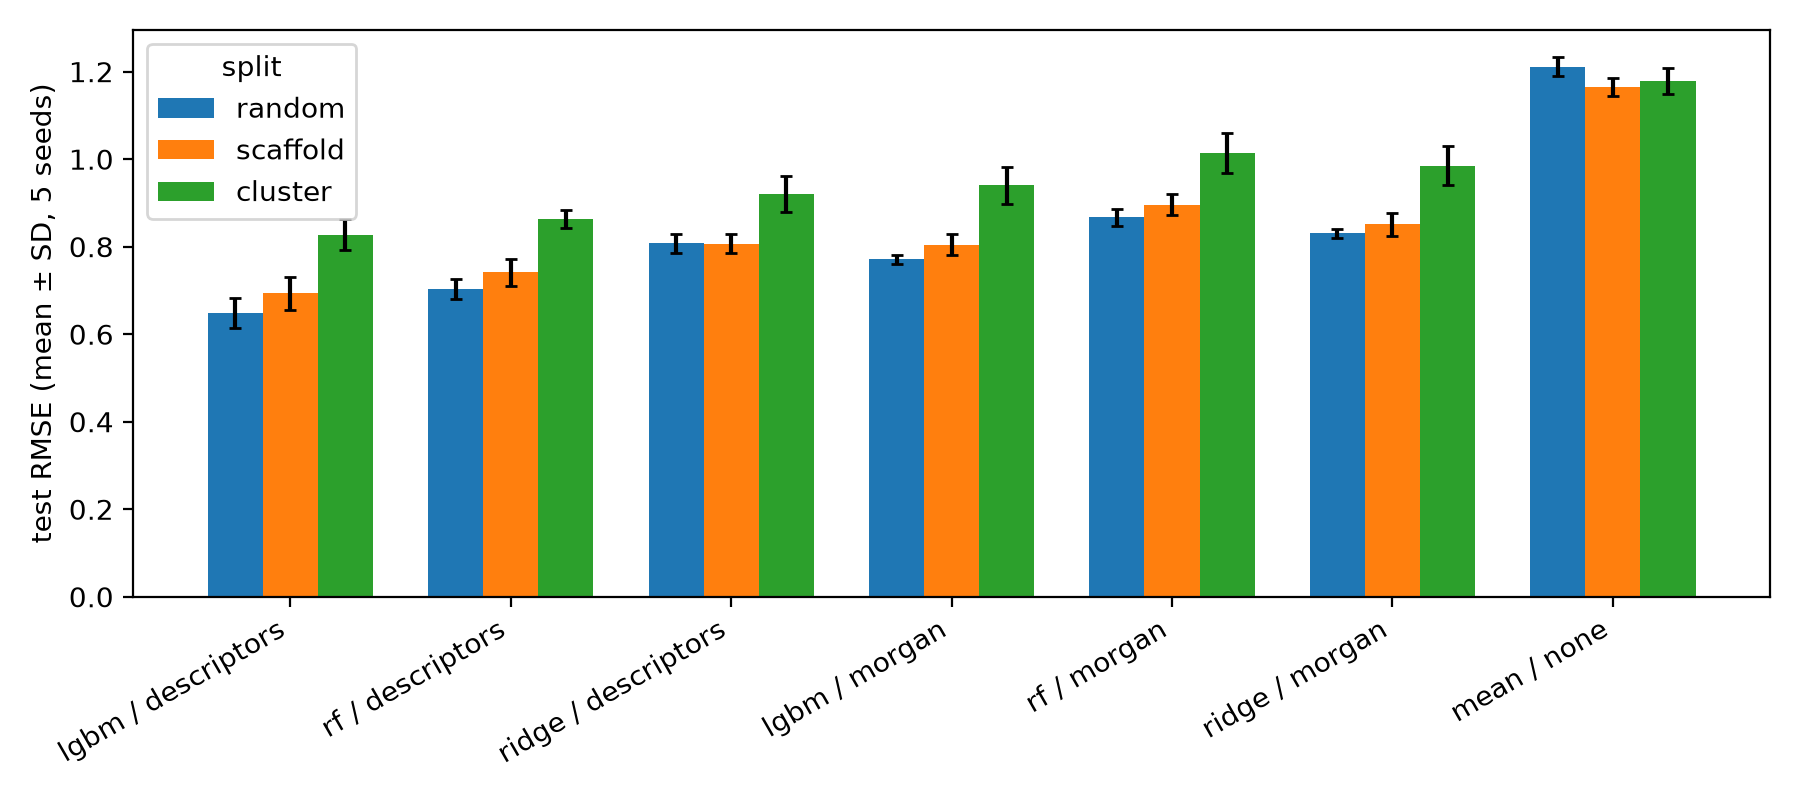
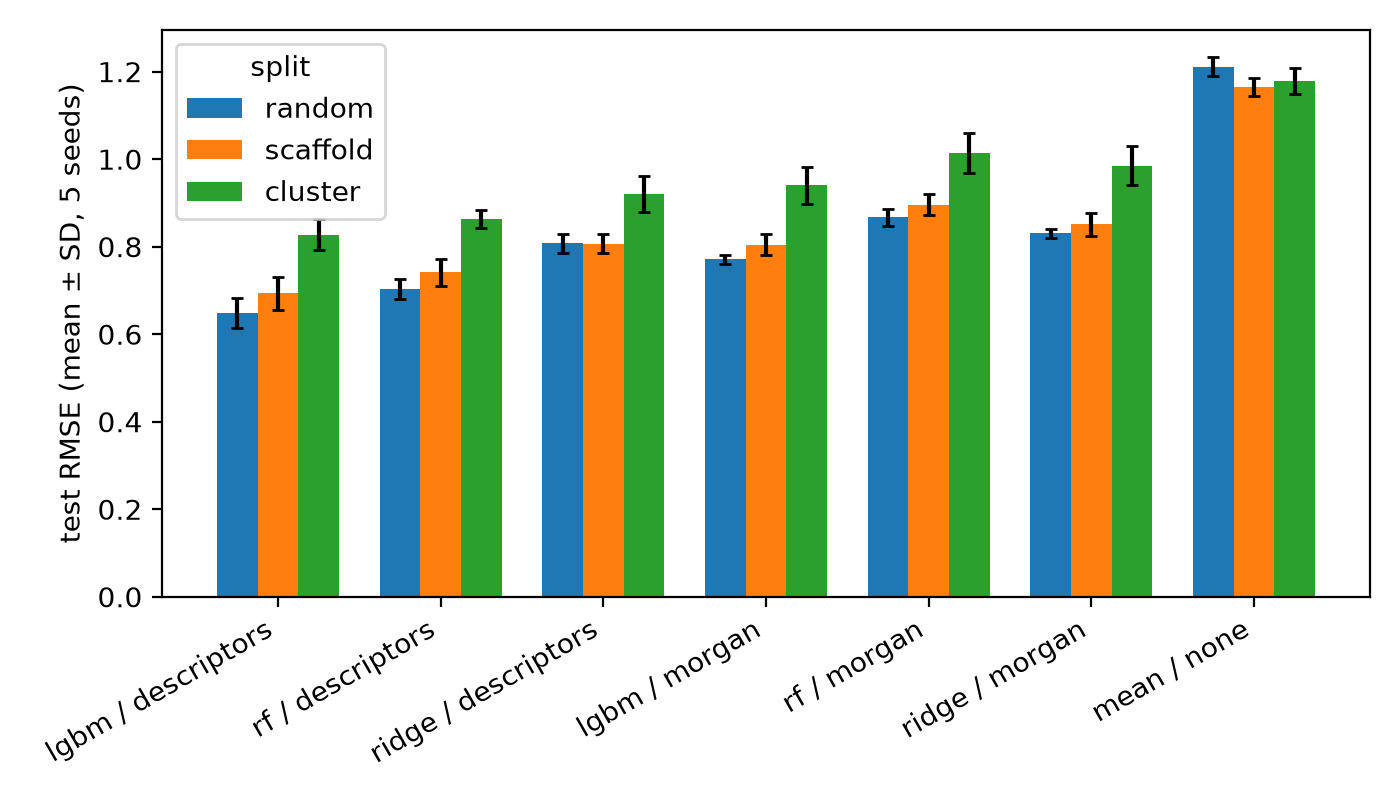
Improve comments & readability

diff --git a/03_domain_analysis.py b/03_domain_analysis.py
@@ -2,48 +2,57 @@ from pathlib import Path
 
 import pandas as pd
 
-from qsar_ad.domain import (ad_inside_outside, attach_errors, compute_split_ad, coverage_curve,
-                            error_by_similarity, error_similarity_correlation, fluorine_stats,
-                            load_pfas, reference_similarity)
-from qsar_ad.features import morgan_matrix
-from qsar_ad.plotting import (plot_coverage_curve, plot_error_vs_similarity,
-                              plot_similarity_distributions)
+from qsar_ad import (ad_inside_outside, attach_errors, compute_split_ad, coverage_curve,
+                    error_by_similarity, error_similarity_correlation, fluorine_stats,
+                    load_pfas, reference_similarity, morgan_matrix, plot_coverage_curve, 
+                    plot_error_vs_similarity, plot_similarity_distributions)
 
+# Set pandas display options and define output directories
 pd.set_option("display.width", 200, "display.max_columns", None)
 out = Path("results/tables"); fig_dir = Path("results/figures")
 fig_dir.mkdir(parents=True, exist_ok=True)
 
+# Load curated dataset and compute Morgan fingerprints for the training set
 df = pd.read_parquet("data/processed/lipo_curated.parquet").reset_index(drop=True)
 X = morgan_matrix(df["smiles"])
 preds = pd.read_parquet(out / "predictions.parquet")
 
 # ---- Part A: does the AD predict error? ----
+# Compute AD scores for each split and seed, then attach to predictions
 ad = compute_split_ad(df, X)                      # same defaults as run_benchmark
 d = attach_errors(preds, ad)
 ad.to_parquet(out / "ad_scores.parquet")
 
+# Compute error by similarity, correlation, and coverage curve
 binned = error_by_similarity(d)
 corr = error_similarity_correlation(d)
 inout = ad_inside_outside(d, "in_ad")
 inout_fixed = ad_inside_outside(d, "near_train")
 curve = coverage_curve(d)
+
+# Save results to CSV files
 for name, t in [("error_by_similarity", binned), ("error_similarity_correlation", corr),
                 ("ad_inside_outside", inout), ("ad_inside_outside_sim04", inout_fixed),
                 ("coverage_curve", curve)]:
     t.to_csv(out / f"{name}.csv", index=False)
 
 print(corr.round(3)); print(inout.round(3))
+
+# Plot error vs similarity and coverage curve, then save the figures
 plot_error_vs_similarity(binned, path=fig_dir / "error_vs_similarity.png")
 plot_coverage_curve(curve, path=fig_dir / "coverage_curve.png")
 
 # ---- Fluorine content of the training set ----
+# Compute fluorine statistics and print summary
 fs = fluorine_stats(df["smiles"])
 print("curated set: any F:", int((fs.n_F > 0).sum()),
       "| OECD-style CF2/CF3:", int(fs.pfas_oecd.sum()), "of", len(df))
 
 # ---- Part B: PFAS coverage  ----
+# Load PFAS list
 pfas_path = Path("data/raw/Chemical List PFASSTRUCT-2026-11-12.csv")
 if pfas_path.exists():
+    # Load PFAS & training data and compute descriptors
     pfas, counts = load_pfas(pfas_path, smiles_col="SMILES")   # adjust column name
     print(counts)
     res = reference_similarity(pfas["smiles"], morgan_matrix(pfas["smiles"]), X)

diff --git a/src/qsar_ad/plotting.py b/src/qsar_ad/plotting.py
@@ -7,7 +7,7 @@ def plot_split_performance(summary, metric="rmse", path=None):
     s = summary.assign(label=lambda d: d["model"] + " / " + d["feature"])
     labels = list(dict.fromkeys(s["label"]))
 
-    fig, ax = plt.subplots(figsize=(9, 4))
+    fig, ax = plt.subplots(figsize=(7, 4))
     w = 0.25
 
     # Draw a bar for each method, offsetting the x position by the method index
@@ -59,5 +59,19 @@ def plot_similarity_distributions(series: dict, threshold=0.4, path=None):
     ax.axvline(threshold, color="grey", linestyle="--")
     ax.set_xlabel("max Tanimoto similarity to training set")
     ax.set_ylabel("density"); ax.legend(); fig.tight_layout()
+    if path: fig.savefig(path, dpi=200)
+    return fig
+
+def plot_coverage_by_similarity(cond, model="rf", feature="descriptors", alpha=0.1, path=None):
+    d = cond[(cond["model"] == model) & (cond["feature"] == feature) & (cond["alpha"] == alpha)]
+    fig, ax = plt.subplots(figsize=(7, 4))
+    for (kind, method), g in d.groupby(["kind", "method"]):
+        ax.plot([b.left for b in g["sim_bin"]], g["coverage"], marker="o",
+                linestyle="-" if kind == "absolute" else "--",
+                label=f"{method} ({kind})")
+    ax.axhline(1 - alpha, color="grey", linestyle=":")
+    ax.set_xlabel("max Tanimoto similarity to training set (bin start)")
+    ax.set_ylabel("empirical coverage"); ax.set_ylim(0.4, 1.02)
+    ax.legend(fontsize=8); fig.tight_layout()
     if path: fig.savefig(path, dpi=200)
     return fig

diff --git a/src/qsar_ad/features.py b/src/qsar_ad/features.py
@@ -17,7 +17,7 @@ def morgan_matrix(smiles, radius: int = 2, n_bits: int = 2048) -> np.ndarray:
                      ).astype(np.float32)
 
 
-def rdkit_descriptors(smiles) -> pd.DataFrame:
+def rdkit_descriptors(smiles, file_path = None) -> pd.DataFrame:
     """All RDKit 2D descriptors per molecule. Computing them is per-molecule, so doing
     it on the full dataset does not leak anything. Failures become NaN."""
     names = [n for n, _ in Descriptors._descList]
@@ -28,4 +28,7 @@ def rdkit_descriptors(smiles) -> pd.DataFrame:
             rows.append([d.get(n, np.nan) for n in names])
         except Exception:
             rows.append([np.nan] * len(names))
+
+    if file_path:
+        pd.DataFrame(rows, columns=names, dtype="float64").to_parquet(file_path, index=False)
     return pd.DataFrame(rows, columns=names, dtype="float64")

diff --git a/src/qsar_ad/models.py b/src/qsar_ad/models.py
@@ -14,6 +14,7 @@ from sklearn.feature_selection import VarianceThreshold
 
 MODELS = ("mean", "ridge", "rf", "lgbm")
 FEATURES = ("morgan", "descriptors")
+F32_MAX = float(np.finfo(np.float32).max)
 
 
 def make_model(name: str, feature: str, seed: int) -> Pipeline:
@@ -26,6 +27,8 @@ def make_model(name: str, feature: str, seed: int) -> Pipeline:
     # Preprocessing: only descriptors need cleaning; only ridge needs scaling.
     steps = []
     if feature == "descriptors":
+        steps.append(("float32", FunctionTransformer(
+            lambda X: np.clip(np.where(np.isfinite(X), X, np.nan), -F32_MAX, F32_MAX))))
         steps.append(("inf", FunctionTransformer(lambda X: np.where(np.isfinite(X), X, np.nan))))
         steps.append(("impute", SimpleImputer(strategy="median")))
         steps.append(("var", VarianceThreshold(0.0)))
